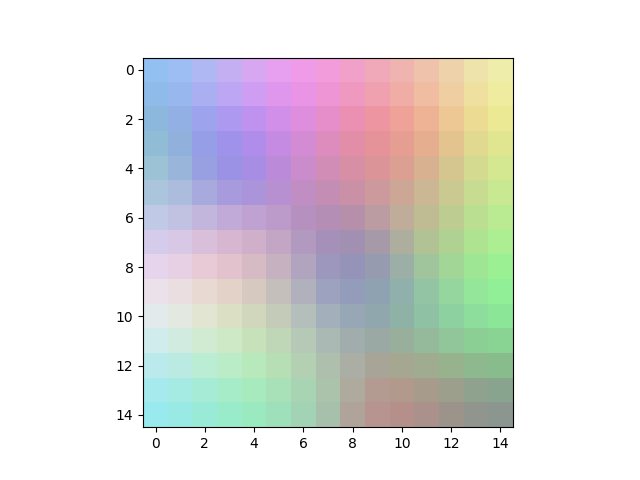
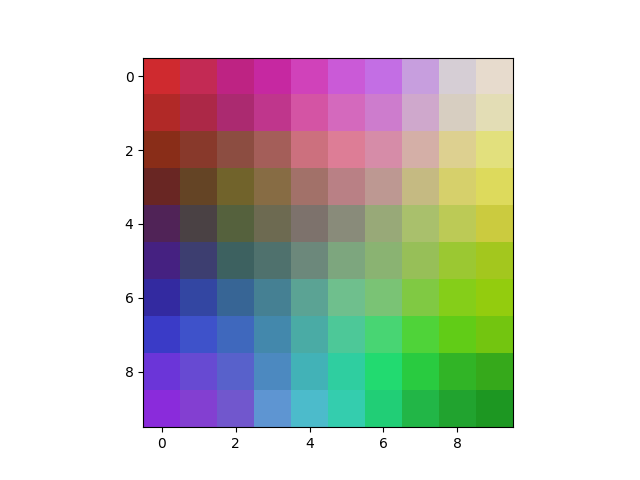
updated

diff --git a/sorting.py b/sorting.py
@@ -4,7 +4,7 @@ import tensorflow as tf
 import matplotlib.pyplot as plt
 
 initial_dim = 5
-som = SOM(3, initial_dim, sigma=initial_dim / 2, min_lr=0.01)
+som = SOM(3, initial_dim, sigma=initial_dim , min_lr=0.01)
 x_test = np.random.uniform(0, 1, (initial_dim * initial_dim, 3))
 
 train_op = som.train_op()
@@ -25,10 +25,15 @@ with tf.Session() as sess:
     plt.figure()
     plt.subplot(2, 2, 1)
     plt.imshow(np.reshape(x_test, [initial_dim, initial_dim, 3]))
+    plt.title('Random colors')
     plt.subplot(2, 2, 2)
     plt.imshow(np.reshape(sess.run(som.w), [som.dim.eval(), som.dim.eval(), 3]))
+    plt.title('Sorted colors')
     plt.subplot(2, 2, 3)
+    plt.title('Color sample')
     plt.imshow(np.ones((initial_dim, initial_dim, 3)) * color_data)
     plt.subplot(2, 2, 4)
+    plt.title('Its place on map')
     plt.imshow((np.reshape(a[1], [som.dim.eval(), som.dim.eval()])))
+    plt.tight_layout(1,1,1)
     plt.show(block=True)

diff --git a/free_map.py b/free_map.py
@@ -3,8 +3,12 @@ import numpy as np
 import tensorflow as tf
 import matplotlib.pyplot as plt
 
-som = SOM(3, 10, sigma=20)
-x_test = np.random.uniform(0, 1, (100000, 3))
+map_size = 10
+sigma = 20
+n_samples = 100000
+
+som = SOM(3, map_size, sigma=sigma)
+x_test = np.random.uniform(0, 1, (n_samples, 3))
 
 train_op = som.train_op()
 init = tf.global_variables_initializer()
@@ -18,6 +22,7 @@ with tf.Session() as sess:
     plt.figure()
     plt.imshow( np.reshape(sess.run(som.w), [som.dim.eval(), som.dim.eval(), 3]))
     plt.show(block=False)
+
     plt.figure()
     plt.imshow((np.reshape(a[1], [som.dim.eval(), som.dim.eval()])))
     plt.show()
